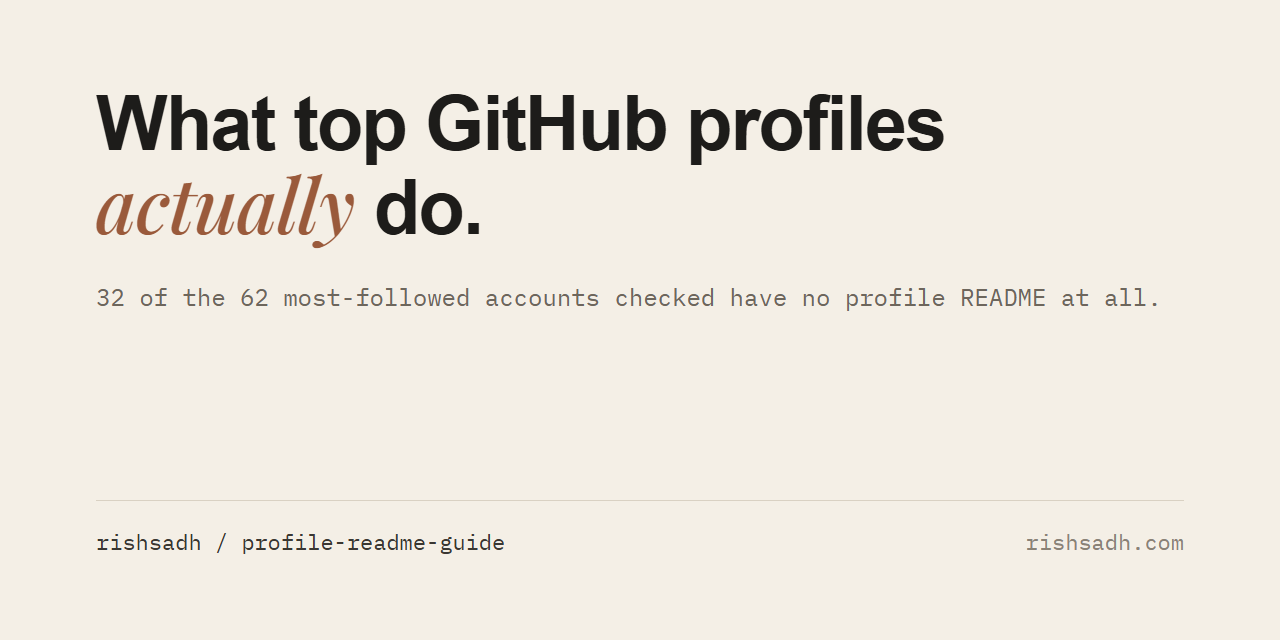
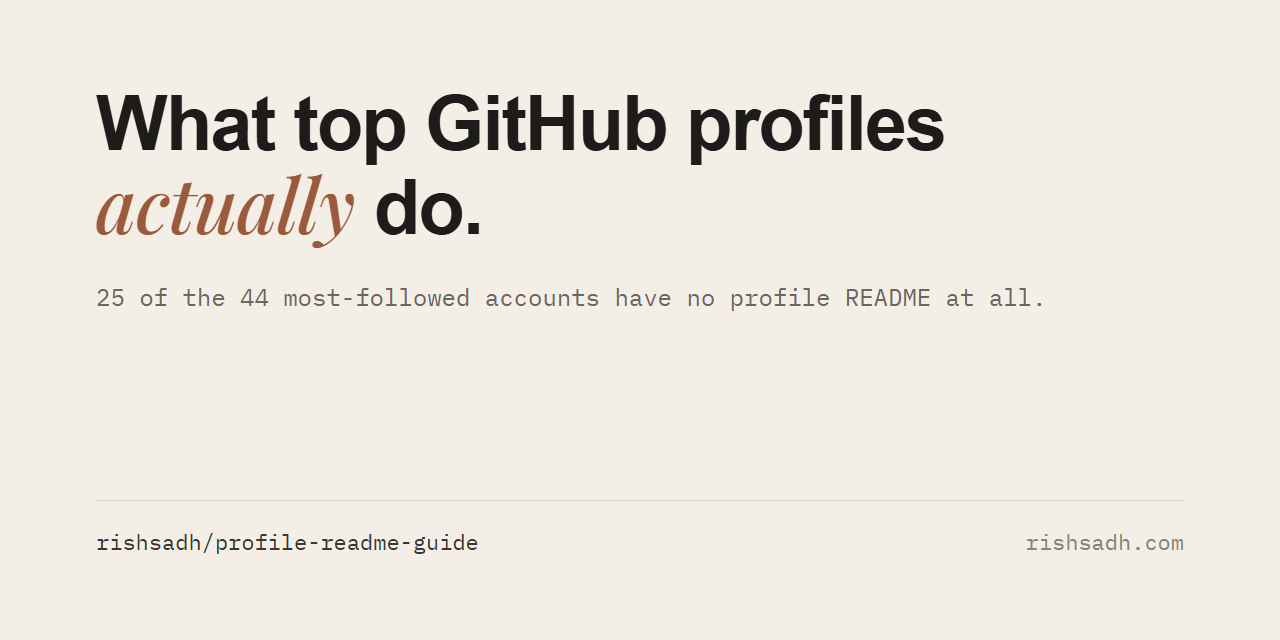
Lead with 25 of the 44 most-followed; 32 of 62 stays in the body

diff --git a/README.md b/README.md
@@ -1,6 +1,6 @@
 # What top GitHub profile READMEs actually contain
 
-![What top GitHub profiles actually do: 32 of the 62 most-followed accounts checked have no profile README at all](media/social-preview.png)
+![What top GitHub profiles actually do: 25 of the 44 most-followed accounts have no profile README at all](media/social-preview.png)
 
 I checked 62 of the most-followed accounts on GitHub for a profile README, and coded the 30 that have one. Read on 29 September 2026. Data, script and method are in this repository, and every number below traces to [data/profiles.csv](data/profiles.csv).
 
@@ -53,7 +53,7 @@ Then, if you write a README, write about 20 lines. Say who you are and what you 
 
 The length and the link count come from the data. The first-line advice is mine. I coded how each README opens (13 headings, 9 HTML blocks, 3 links, 3 plain text, 1 image, 1 empty). The most common opening is a heading, at 13 of 30. No opening is shared by most.
 
-If you have nothing to show yet, skip the README. 32 of these 62 did.
+If you have nothing to show yet, skip the README. 25 of the 44 most-followed did.
 
 ## What not to bother with
 
